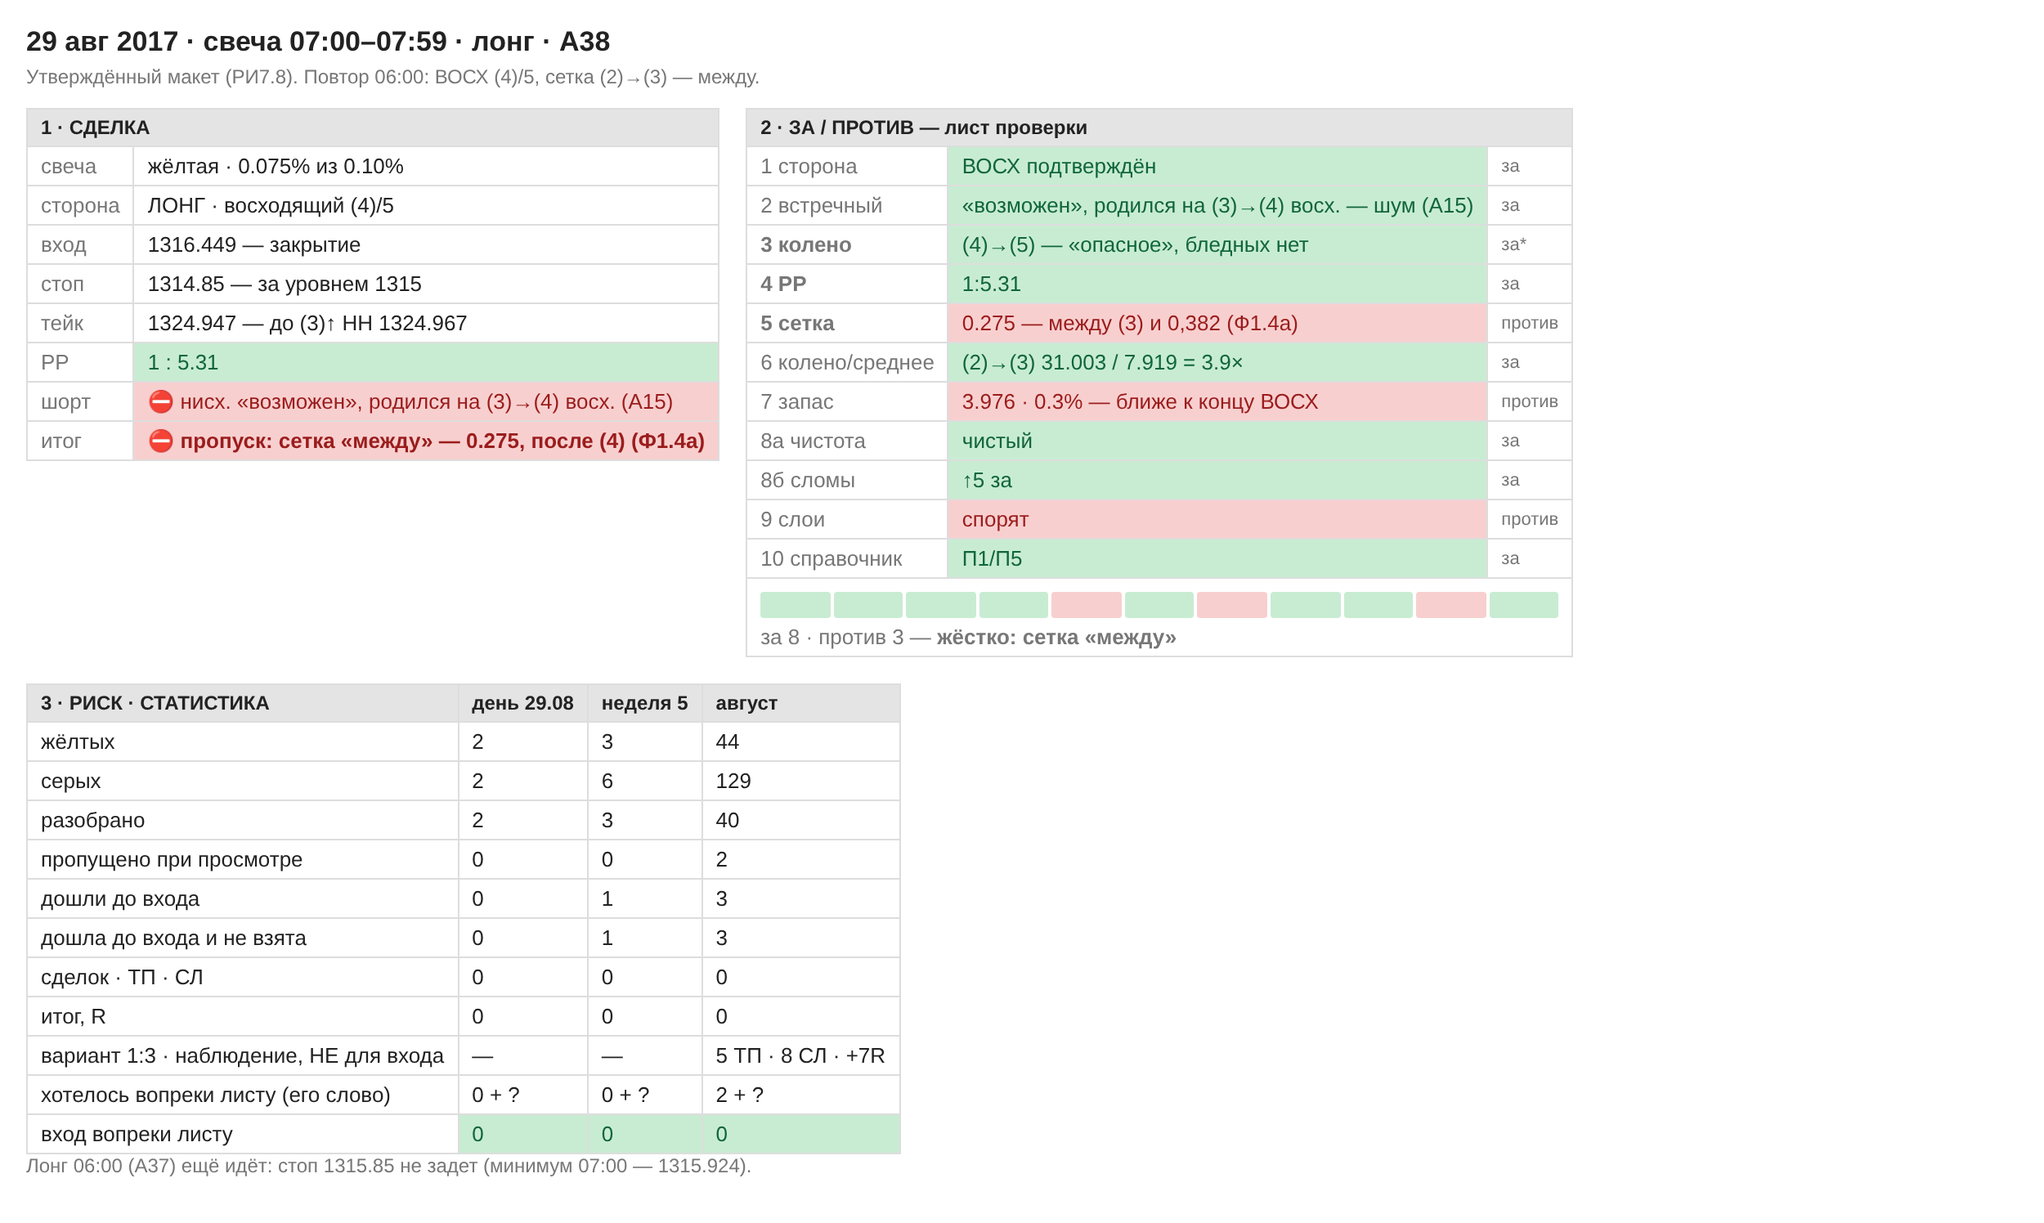
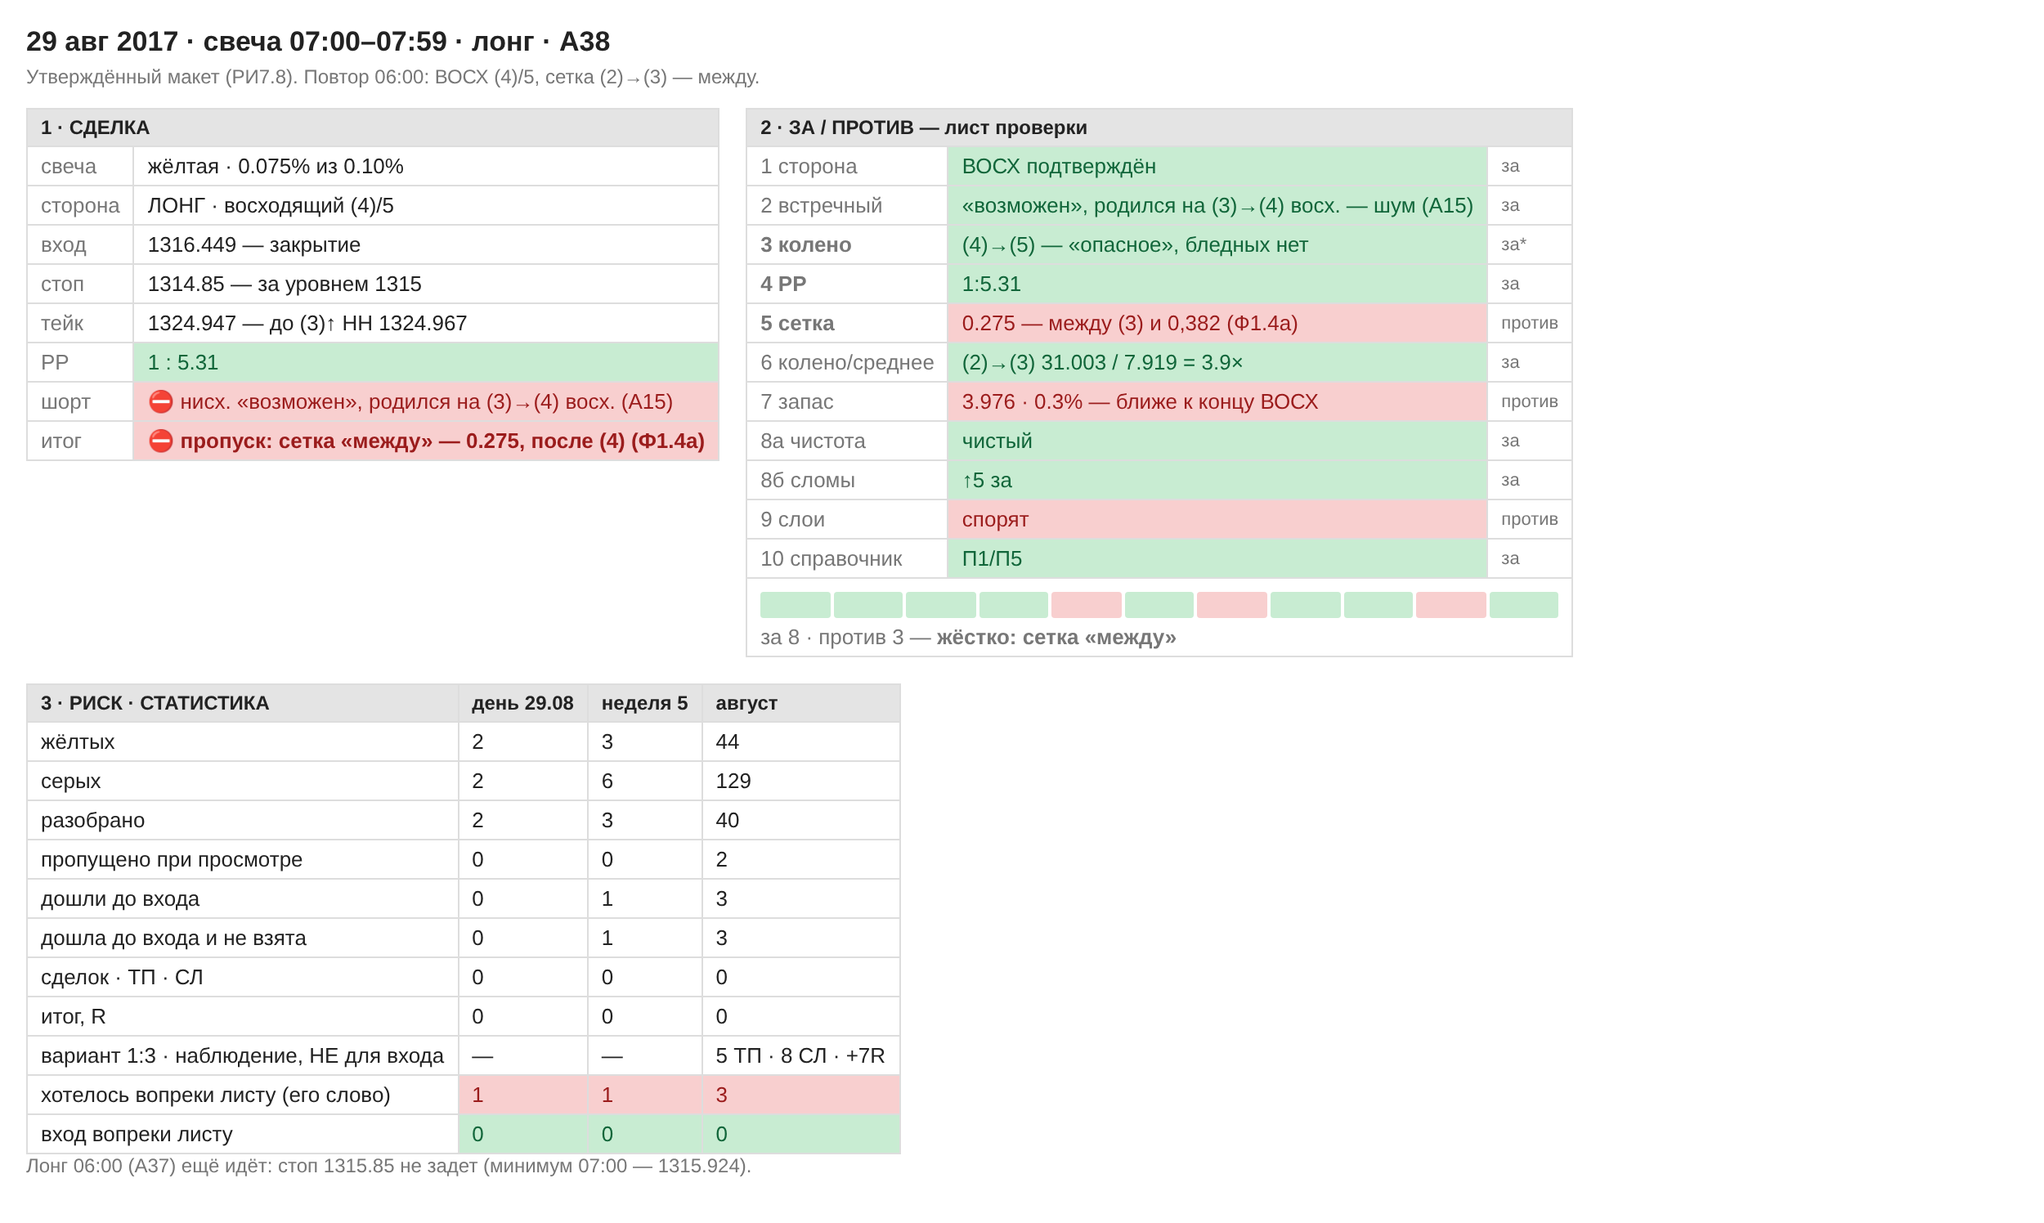
А38: «хотелось в лонг вопреки листу» — третий раз в августе, все три лонг
Claude-Session: https://claude.ai/code/session_01TnuyYeu48W8E686G1zottP

Changed region(s): [[0.2184, 0.861, 0.4368, 0.9225]]

diff --git a/research/out/maket/2017-08-29_0700.html b/research/out/maket/2017-08-29_0700.html
@@ -6,4 +6,4 @@ table{border-collapse:collapse;min-width:360px}td,th{border:1px solid var(--ln);
 th{background:var(--h);font-size:12px}.blk td:first-child{color:var(--mut);white-space:nowrap}
 .g{background:var(--g);color:var(--gt)}.r{background:var(--r);color:var(--rt)}.n{background:var(--n);color:var(--mut)}
 .hard{font-weight:bold}.tag{font-size:11px;color:var(--mut)}
-.bar{display:flex;gap:2px;margin:4px 0}.bar span{flex:1;height:16px;border-radius:2px}</style></head><body><h1>29 авг 2017 · свеча 07:00–07:59 · лонг · А38</h1><p class="sub">Утверждённый макет (РИ7.8). Повтор 06:00: ВОСХ (4)/5, сетка (2)→(3) — между.</p><div class="wrap"><table class="blk"><tr><th colspan="2">1 · СДЕЛКА</th></tr><tr><td>свеча</td><td class="">жёлтая · 0.075% из 0.10%</td></tr><tr><td>сторона</td><td class="">ЛОНГ · восходящий (4)/5</td></tr><tr><td>вход</td><td class="">1316.449 — закрытие</td></tr><tr><td>стоп</td><td class="">1314.85 — за уровнем 1315</td></tr><tr><td>тейк</td><td class="">1324.947 — до (3)↑ HH 1324.967</td></tr><tr><td>РР</td><td class="g">1 : 5.31</td></tr><tr><td>шорт</td><td class="r">⛔ нисх. «возможен», родился на (3)→(4) восх. (А15)</td></tr><tr><td>итог</td><td class="r hard">⛔ пропуск: сетка «между» — 0.275, после (4) (Ф1.4а)</td></tr></table><table class="blk"><tr><th colspan="3">2 · ЗА / ПРОТИВ — лист проверки</th></tr><tr><td class="">1 сторона</td><td class="g">ВОСХ подтверждён</td><td class="tag">за</td></tr><tr><td class="">2 встречный</td><td class="g">«возможен», родился на (3)→(4) восх. — шум (А15)</td><td class="tag">за</td></tr><tr><td class="hard">3 колено</td><td class="g">(4)→(5) — «опасное», бледных нет</td><td class="tag">за*</td></tr><tr><td class="hard">4 РР</td><td class="g">1:5.31</td><td class="tag">за</td></tr><tr><td class="hard">5 сетка</td><td class="r">0.275 — между (3) и 0,382 (Ф1.4а)</td><td class="tag">против</td></tr><tr><td class="">6 колено/среднее</td><td class="g">(2)→(3) 31.003 / 7.919 = 3.9×</td><td class="tag">за</td></tr><tr><td class="">7 запас</td><td class="r">3.976 · 0.3% — ближе к концу ВОСХ</td><td class="tag">против</td></tr><tr><td class="">8а чистота</td><td class="g">чистый</td><td class="tag">за</td></tr><tr><td class="">8б сломы</td><td class="g">↑5 за</td><td class="tag">за</td></tr><tr><td class="">9 слои</td><td class="r">спорят</td><td class="tag">против</td></tr><tr><td class="">10 справочник</td><td class="g">П1/П5</td><td class="tag">за</td></tr><tr><td colspan="3"><div class="bar"><span class="g"></span><span class="g"></span><span class="g"></span><span class="g"></span><span class="r"></span><span class="g"></span><span class="r"></span><span class="g"></span><span class="g"></span><span class="r"></span><span class="g"></span></div>за 8 · против 3 — <b>жёстко: сетка «между»</b></td></tr></table><table><tr><th>3 · РИСК · СТАТИСТИКА</th><th>день 29.08</th><th>неделя 5</th><th>август</th></tr><tr><td>жёлтых</td><td class="">2</td><td class="">3</td><td class="">44</td></tr><tr><td>серых</td><td class="">2</td><td class="">6</td><td class="">129</td></tr><tr><td>разобрано</td><td class="">2</td><td class="">3</td><td class="">40</td></tr><tr><td>пропущено при просмотре</td><td class="">0</td><td class="">0</td><td class="">2</td></tr><tr><td>дошли до входа</td><td class="">0</td><td class="">1</td><td class="">3</td></tr><tr><td>дошла до входа и не взята</td><td class="">0</td><td class="">1</td><td class="">3</td></tr><tr><td>сделок · ТП · СЛ</td><td class="">0</td><td class="">0</td><td class="">0</td></tr><tr><td>итог, R</td><td class="">0</td><td class="">0</td><td class="">0</td></tr><tr><td>вариант 1:3 · наблюдение, НЕ для входа</td><td class="">—</td><td class="">—</td><td class="">5 ТП · 8 СЛ · +7R</td></tr><tr><td>хотелось вопреки листу (его слово)</td><td class="">0 + ?</td><td class="">0 + ?</td><td class="">2 + ?</td></tr><tr><td>вход вопреки листу</td><td class="g">0</td><td class="g">0</td><td class="g">0</td></tr></table></div><p class="sub">Лонг 06:00 (А37) ещё идёт: стоп 1315.85 не задет (минимум 07:00 — 1315.924).</p></body></html>
+.bar{display:flex;gap:2px;margin:4px 0}.bar span{flex:1;height:16px;border-radius:2px}</style></head><body><h1>29 авг 2017 · свеча 07:00–07:59 · лонг · А38</h1><p class="sub">Утверждённый макет (РИ7.8). Повтор 06:00: ВОСХ (4)/5, сетка (2)→(3) — между.</p><div class="wrap"><table class="blk"><tr><th colspan="2">1 · СДЕЛКА</th></tr><tr><td>свеча</td><td class="">жёлтая · 0.075% из 0.10%</td></tr><tr><td>сторона</td><td class="">ЛОНГ · восходящий (4)/5</td></tr><tr><td>вход</td><td class="">1316.449 — закрытие</td></tr><tr><td>стоп</td><td class="">1314.85 — за уровнем 1315</td></tr><tr><td>тейк</td><td class="">1324.947 — до (3)↑ HH 1324.967</td></tr><tr><td>РР</td><td class="g">1 : 5.31</td></tr><tr><td>шорт</td><td class="r">⛔ нисх. «возможен», родился на (3)→(4) восх. (А15)</td></tr><tr><td>итог</td><td class="r hard">⛔ пропуск: сетка «между» — 0.275, после (4) (Ф1.4а)</td></tr></table><table class="blk"><tr><th colspan="3">2 · ЗА / ПРОТИВ — лист проверки</th></tr><tr><td class="">1 сторона</td><td class="g">ВОСХ подтверждён</td><td class="tag">за</td></tr><tr><td class="">2 встречный</td><td class="g">«возможен», родился на (3)→(4) восх. — шум (А15)</td><td class="tag">за</td></tr><tr><td class="hard">3 колено</td><td class="g">(4)→(5) — «опасное», бледных нет</td><td class="tag">за*</td></tr><tr><td class="hard">4 РР</td><td class="g">1:5.31</td><td class="tag">за</td></tr><tr><td class="hard">5 сетка</td><td class="r">0.275 — между (3) и 0,382 (Ф1.4а)</td><td class="tag">против</td></tr><tr><td class="">6 колено/среднее</td><td class="g">(2)→(3) 31.003 / 7.919 = 3.9×</td><td class="tag">за</td></tr><tr><td class="">7 запас</td><td class="r">3.976 · 0.3% — ближе к концу ВОСХ</td><td class="tag">против</td></tr><tr><td class="">8а чистота</td><td class="g">чистый</td><td class="tag">за</td></tr><tr><td class="">8б сломы</td><td class="g">↑5 за</td><td class="tag">за</td></tr><tr><td class="">9 слои</td><td class="r">спорят</td><td class="tag">против</td></tr><tr><td class="">10 справочник</td><td class="g">П1/П5</td><td class="tag">за</td></tr><tr><td colspan="3"><div class="bar"><span class="g"></span><span class="g"></span><span class="g"></span><span class="g"></span><span class="r"></span><span class="g"></span><span class="r"></span><span class="g"></span><span class="g"></span><span class="r"></span><span class="g"></span></div>за 8 · против 3 — <b>жёстко: сетка «между»</b></td></tr></table><table><tr><th>3 · РИСК · СТАТИСТИКА</th><th>день 29.08</th><th>неделя 5</th><th>август</th></tr><tr><td>жёлтых</td><td class="">2</td><td class="">3</td><td class="">44</td></tr><tr><td>серых</td><td class="">2</td><td class="">6</td><td class="">129</td></tr><tr><td>разобрано</td><td class="">2</td><td class="">3</td><td class="">40</td></tr><tr><td>пропущено при просмотре</td><td class="">0</td><td class="">0</td><td class="">2</td></tr><tr><td>дошли до входа</td><td class="">0</td><td class="">1</td><td class="">3</td></tr><tr><td>дошла до входа и не взята</td><td class="">0</td><td class="">1</td><td class="">3</td></tr><tr><td>сделок · ТП · СЛ</td><td class="">0</td><td class="">0</td><td class="">0</td></tr><tr><td>итог, R</td><td class="">0</td><td class="">0</td><td class="">0</td></tr><tr><td>вариант 1:3 · наблюдение, НЕ для входа</td><td class="">—</td><td class="">—</td><td class="">5 ТП · 8 СЛ · +7R</td></tr><tr><td>хотелось вопреки листу (его слово)</td><td class="r">1</td><td class="r">1</td><td class="r">3</td></tr><tr><td>вход вопреки листу</td><td class="g">0</td><td class="g">0</td><td class="g">0</td></tr></table></div><p class="sub">Лонг 06:00 (А37) ещё идёт: стоп 1315.85 не задет (минимум 07:00 — 1315.924).</p></body></html>

diff --git a/indicator/КАК-ТОРГУЮ.md b/indicator/КАК-ТОРГУЮ.md
@@ -64,7 +64,7 @@
 | **А35** | 19.11.2026 | **25 августа 12:00** — скрин без слов | пропуск обе стороны: шорт — РР 1:1.57 до (3)↓ HL 1285.962, бледная (4) с оговоркой · лонг — бледная **(5)** восх., ТС8.13 · одна бледная 1288.624 на двоих · В36: шорт 1:3, тейк 1284.226 |
 | **А36** | 19.11.2026 | **28 августа 05:00** — скрин, «переходим на 28 августа» | ⭐ **третья «дошла до входа»**: шорт на `(2)→(3)` нисх., РР **1:22.7** до (1)↓ LL 1276.196 · жёсткие пройдены, мягкие 7 : 4 · **его решение — пропуск: «цена убрала сетку Ф»** |
 | **А37** | 19.11.2026 | **29 августа 06:00** — скрин без слов | лонг на `(4)→(5)`, РР **1:11.38** до (3) HH 1324.967 · решает сетка (2)→(3): 0.27 — «между», коррекция уже кончилась на (4) · ✅ **его слово «да, это между, пропуск» — Ф1.4а** |
-| **А38** | 19.11.2026 | **29 августа 07:00** — скрин без слов | пропуск: повтор 06:00 — лонг `(4)→(5)`, РР 1:5.31, сетка «между» 0.275 (Ф1.4а) · лонг 06:00 ещё идёт |
+| **А38** | 19.11.2026 | **29 августа 07:00** — скрин без слов | пропуск: повтор 06:00 — лонг `(4)→(5)`, РР 1:5.31, сетка «между» 0.275 (Ф1.4а) · **хотелось в лонг вопреки листу** · лонг 06:00 ещё идёт |
 
 ---
 
@@ -4566,3 +4566,18 @@ HH 1324.967** — один бар 29 авг 01:00, вынос с 1310 на 15 д
 
 **Макет:** `research/out/maket/2017-08-29_0700.png`. ❓ «Хотелось вопреки
 листу» — спрошено.
+
+**Ответ, 19.11.2026:** «да, хотелось». «Хотелось вопреки листу» — **1**, лонг.
+
+**Третий раз в августе**, и все три — **лонг**:
+
+| свеча | что закрыло | РР | мягкие |
+|---|---|---|---|
+| 16 авг 07:00 (А22) | лист был за ШОРТ — лонг против стороны | 1:3 по варианту | 5 : 5 |
+| 23 авг 19:00 (А27) | одна сетка «между» | 1:5.24 | 7 : 2 |
+| 29 авг 07:00 (А38) | одна сетка «между» (Ф1.4а) | 1:5.31 | 8 : 3 |
+
+Два последних — одинаковы: **жёстко против только сетка «между», почти все
+мягкие за, РР около 1:5.** Час назад, в 06:00 (А37), та же картина при РР
+1:11.38 — желания **не было**. Три случая — не вывод. Исход — когда он
+пройдёт дальше.

diff --git a/indicator/ТАБЛО-НА-СВЕЧЕ.md b/indicator/ТАБЛО-НА-СВЕЧЕ.md
@@ -50,7 +50,7 @@
 | 25 авг 12:00 | А35 | скрин | **ВОСХ** / **НИСХ** | (4)·**(5) предв.** / (3)·(4) предв. | ↑ чистый, ↑1 за · ↓ чистый, ↑1 ПРОТИВ | спорят | ↓ 0.03% (ближе к концу) | 1.236 / 5.349 (данные) | у ВОСХ колено мелкое | шорт 1:1.57 · лонг 1:2.16 | пропуск: шорт — РР; лонг — бледная (5), ТС8.13 | шорт до вершины — тейк в 15:00 (не сделка, РР 1:1.57) · вариант 1:3 — стоп ~16:10 |
 | 28 авг 05:00 | А36 | скрин | возможен / **НИСХ** | (1) / (2) | ↑ чистый, ↑1 за · ↓ чистый, ↑1 ПРОТИВ | согласны (вверх) | ↓ 0.13% (ближе к концу) | 18.956 / 6.765 | НИСХ `(0)→(1)`, отменена — вышла за 0,79 | **шорт 1:22.7 ✅** | ⭐ **дошла до входа**, 7 : 4 · его решение — **пропуск: «цена убрала сетку Ф»** | шорт — **стоп** в 08:00 (макс. 1295.508), пропуск сберёг 1R |
 | 29 авг 06:00 | А37 | скрин | **ВОСХ** / возможен | **(4)** / (1) | ↑ чистый, ↑5 за · ↓ чистый, ↑5 ПРОТИВ | спорят | 0.31% · ближе к концу ВОСХ | 31.003 / 7.919 | ВОСХ `(2)→(3)`, 0.27 — между при стоящей (4) — Ф1.4а, его слово | **лонг 1:11.38** | **пропуск: сетка «между»** | — идёт |
-| 29 авг 07:00 | А38 | скрин | **ВОСХ** / возможен | **(4)** / (1) | ↑ чистый, ↑5 за · ↓ чистый, ↑5 ПРОТИВ | спорят | 0.3% · ближе к концу ВОСХ | 31.003 / 7.919 | ВОСХ `(2)→(3)`, 0.275 — между (Ф1.4а) | лонг 1:5.31 | пропуск: сетка «между» | — идёт |
+| 29 авг 07:00 | А38 | скрин | **ВОСХ** / возможен | **(4)** / (1) | ↑ чистый, ↑5 за · ↓ чистый, ↑5 ПРОТИВ | спорят | 0.3% · ближе к концу ВОСХ | 31.003 / 7.919 | ВОСХ `(2)→(3)`, 0.275 — между (Ф1.4а) | лонг 1:5.31 | пропуск: сетка «между» · **хотелось в лонг вопреки листу** | — идёт |
 
 ⚠ **8 авг 03:00 — табло на бар позади.** На закрытии свечи было уже
 **(2)** и **ВОСХ**; на графике он видел (1) и «возможен» — З77, починено в
